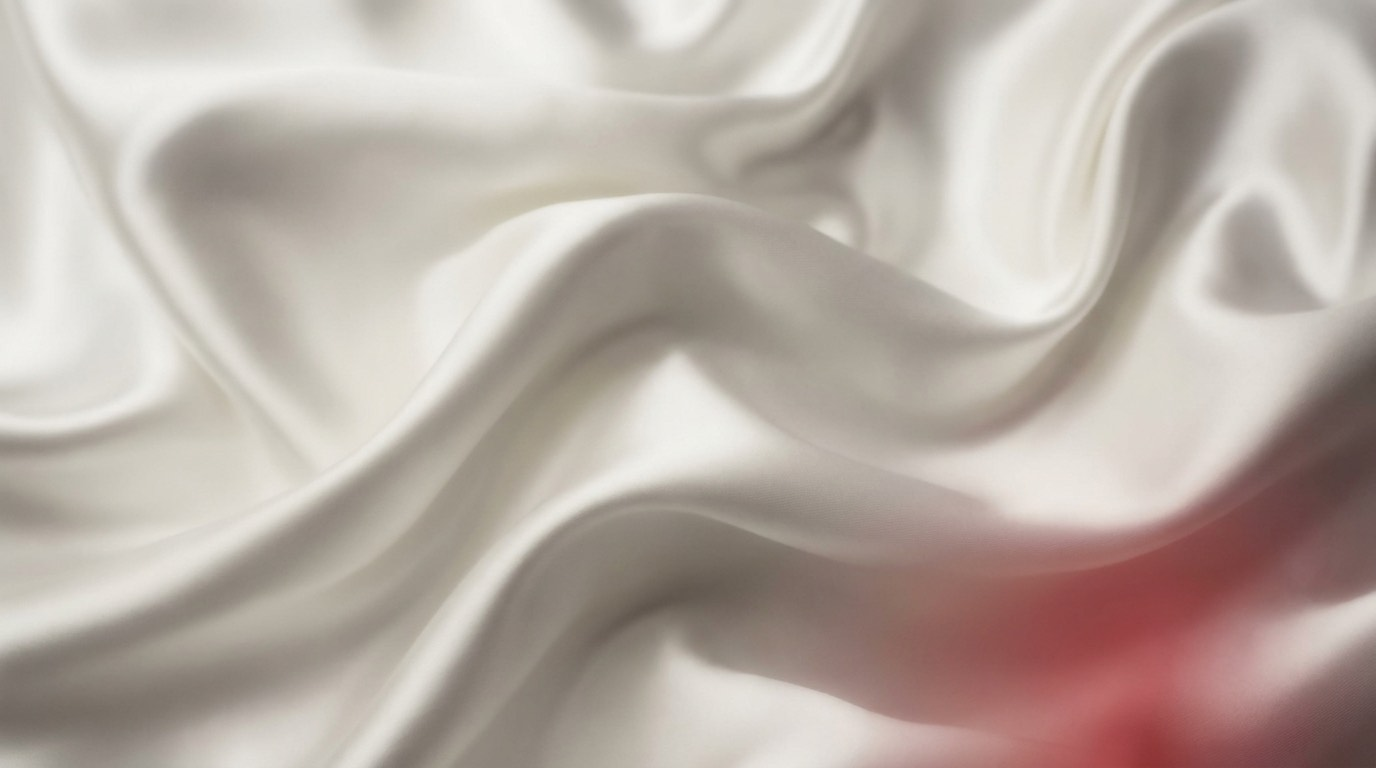
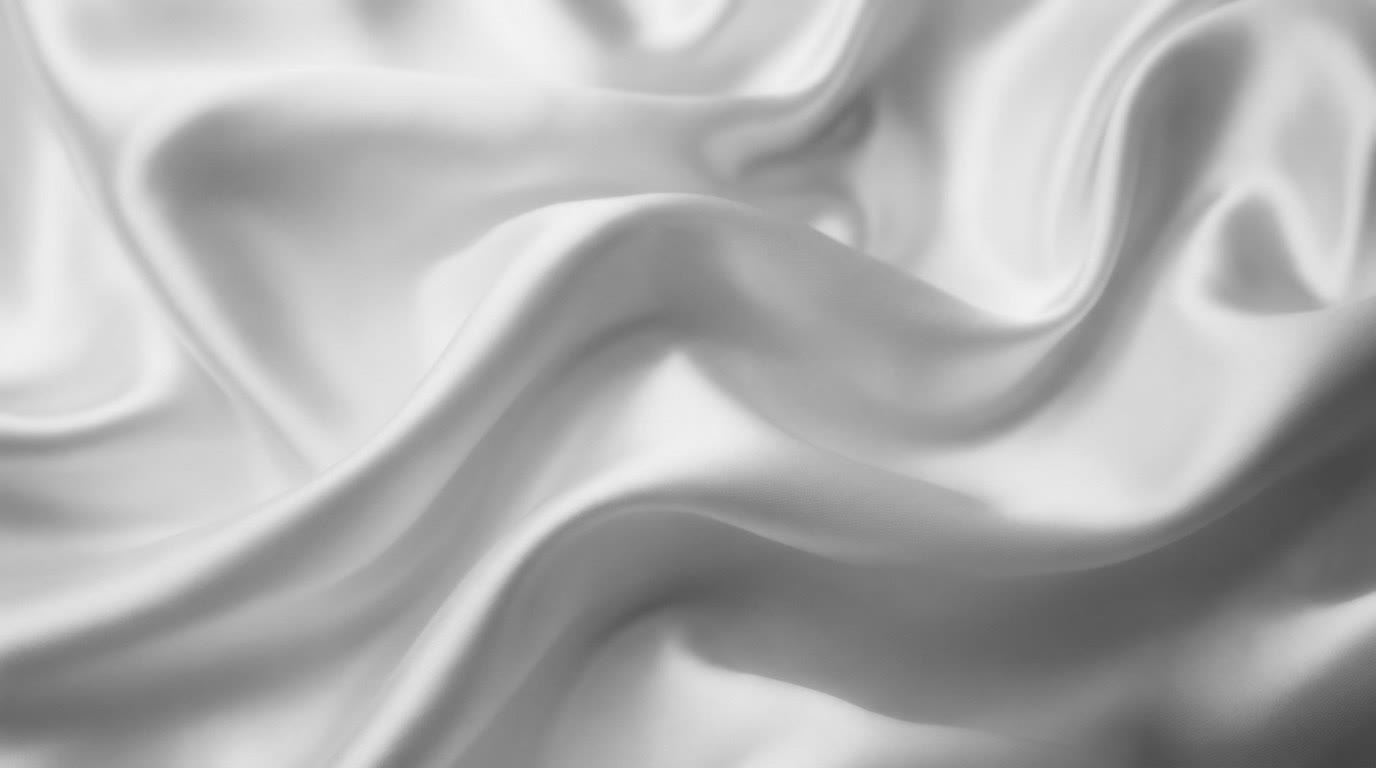
Neutral silk backdrop and floating glass capsule nav
Desaturated the silk texture to pure grayscale (no accent cast),
and detached the header into a frosted rounded pill that stays
readable over the moving backdrop.

Changed region(s): [[0.625, 0.625, 0.9688, 1.0]]

diff --git a/css/styles.css b/css/styles.css
@@ -2623,3 +2623,35 @@ footer{
   -webkit-backdrop-filter:blur(10px);
   backdrop-filter:blur(10px);
 }
+
+/* =========================================================
+   Floating glass capsule header — the nav sits in a detached
+   frosted pill over the silk backdrop, readable at all times.
+   ========================================================= */
+.site-header{
+  top:14px;
+  left:50%;
+  right:auto;
+  transform:translateX(-50%);
+  width:min(calc(100% - 28px),1280px);
+  padding:10px 12px 10px 24px;
+  border-radius:999px;
+  border:1px solid rgba(28,27,24,.08);
+  background:rgba(255,255,255,.62);
+  -webkit-backdrop-filter:blur(18px) saturate(1.15);
+  backdrop-filter:blur(18px) saturate(1.15);
+  box-shadow:0 10px 30px rgba(28,27,24,.06);
+}
+.site-header.is-scrolled{
+  padding:8px 12px 8px 24px;
+  background:rgba(255,255,255,.8);
+  box-shadow:0 14px 36px rgba(28,27,24,.09);
+}
+.site-header.is-hidden{
+  transform:translate(-50%,-130%);
+  opacity:0;
+}
+@media (max-width:900px){
+  .site-header{padding:8px 10px 8px 18px}
+  .site-nav{top:84px}
+}
